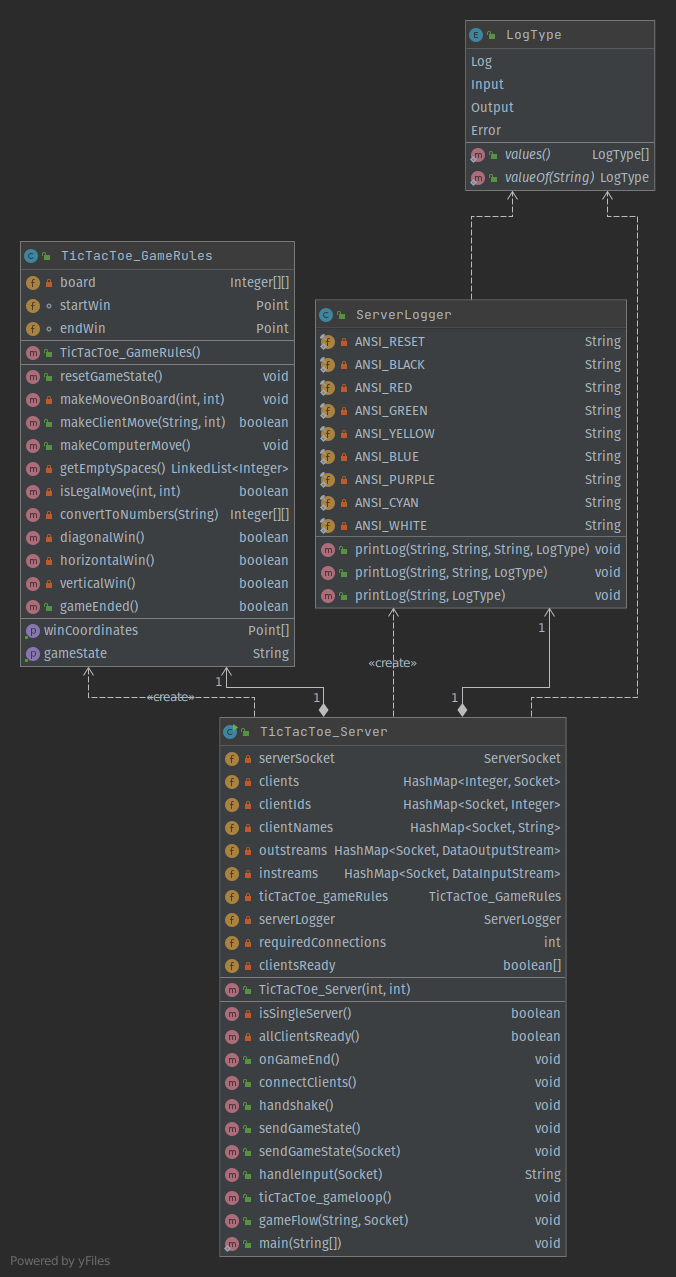
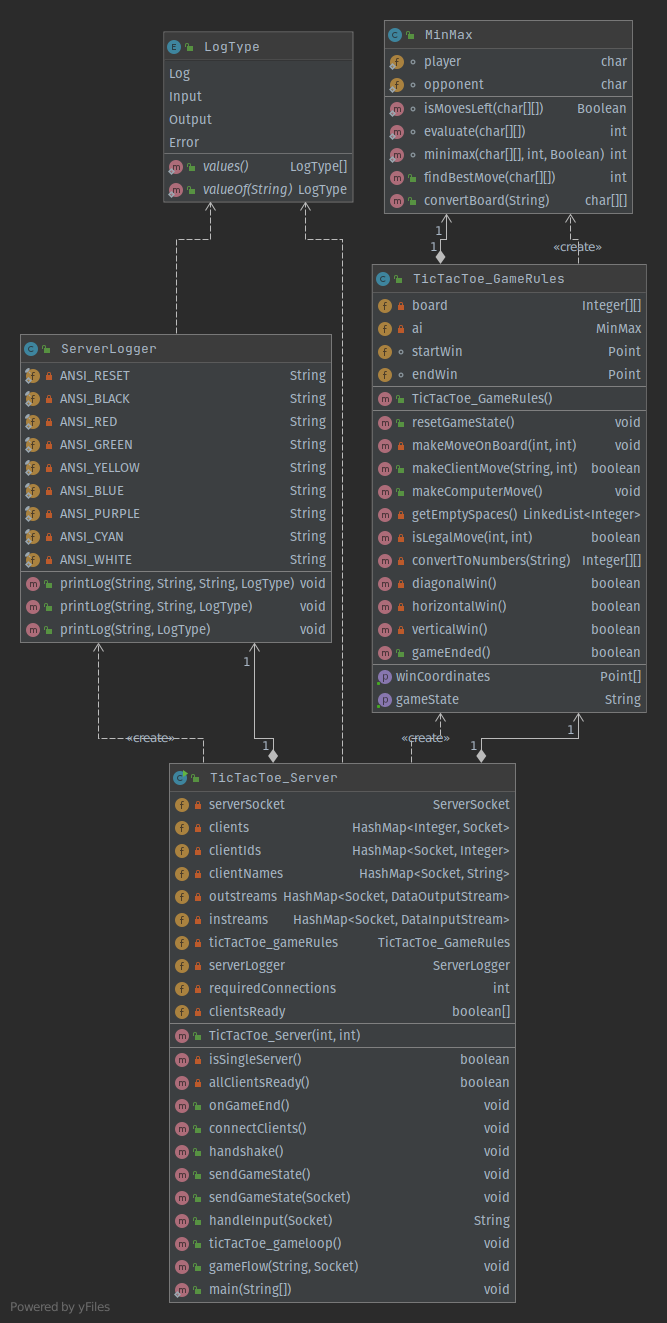
Added AI

Changed region(s): [[0.03, 0.0, 0.9895, 1.0], [0.09, 0.9773, 0.1499, 1.0], [0.5097, 0.0305, 0.5397, 0.0611]]

diff --git a/Server/src/ai/MinMax.java b/Server/src/ai/MinMax.java
@@ -1,0 +1,208 @@
+package ai;
+// Java program to find the
+// next optimal move for a player
+public class MinMax
+{
+    static char player = 'o', opponent = 'x';
+
+    // This function returns true if there are moves
+// remaining on the board. It returns false if
+// there are no moves left to play.
+    static Boolean isMovesLeft(char board[][])
+    {
+        for (int i = 0; i < 3; i++)
+            for (int j = 0; j < 3; j++)
+                if (board[i][j] == '-')
+                    return true;
+        return false;
+    }
+
+    // This is the evaluation function as discussed
+// in the previous article ( http://goo.gl/sJgv68 )
+    static int evaluate(char b[][])
+    {
+        // Checking for Rows for X or O victory.
+        for (int row = 0; row < 3; row++)
+        {
+            if (b[row][0] == b[row][1] &&
+                    b[row][1] == b[row][2])
+            {
+                if (b[row][0] == player)
+                    return +10;
+                else if (b[row][0] == opponent)
+                    return -10;
+            }
+        }
+
+        // Checking for Columns for X or O victory.
+        for (int col = 0; col < 3; col++)
+        {
+            if (b[0][col] == b[1][col] &&
+                    b[1][col] == b[2][col])
+            {
+                if (b[0][col] == player)
+                    return +10;
+
+                else if (b[0][col] == opponent)
+                    return -10;
+            }
+        }
+
+        // Checking for Diagonals for X or O victory.
+        if (b[0][0] == b[1][1] && b[1][1] == b[2][2])
+        {
+            if (b[0][0] == player)
+                return +10;
+            else if (b[0][0] == opponent)
+                return -10;
+        }
+
+        if (b[0][2] == b[1][1] && b[1][1] == b[2][0])
+        {
+            if (b[0][2] == player)
+                return +10;
+            else if (b[0][2] == opponent)
+                return -10;
+        }
+
+        // Else if none of them have won then return 0
+        return 0;
+    }
+
+    // This is the minimax function. It considers all
+// the possible ways the game can go and returns
+// the value of the board
+    static int minimax(char board[][],
+                       int depth, Boolean isMax)
+    {
+        int score = evaluate(board);
+
+        // If Maximizer has won the game
+        // return his/her evaluated score
+        if (score == 10)
+            return score;
+
+        // If Minimizer has won the game
+        // return his/her evaluated score
+        if (score == -10)
+            return score;
+
+        // If there are no more moves and
+        // no winner then it is a tie
+        if (isMovesLeft(board) == false)
+            return 0;
+
+        // If this maximizer's move
+        if (isMax)
+        {
+            int best = -1000;
+
+            // Traverse all cells
+            for (int i = 0; i < 3; i++)
+            {
+                for (int j = 0; j < 3; j++)
+                {
+                    // Check if cell is empty
+                    if (board[i][j]=='-')
+                    {
+                        // Make the move
+                        board[i][j] = player;
+
+                        // Call minimax recursively and choose
+                        // the maximum value
+                        best = Math.max(best, minimax(board,
+                                depth + 1, !isMax));
+
+                        // Undo the move
+                        board[i][j] = '-';
+                    }
+                }
+            }
+            return best;
+        }
+
+        // If this minimizer's move
+        else
+        {
+            int best = 1000;
+
+            // Traverse all cells
+            for (int i = 0; i < 3; i++)
+            {
+                for (int j = 0; j < 3; j++)
+                {
+                    // Check if cell is empty
+                    if (board[i][j] == '-')
+                    {
+                        // Make the move
+                        board[i][j] = opponent;
+
+                        // Call minimax recursively and choose
+                        // the minimum value
+                        best = Math.min(best, minimax(board,
+                                depth + 1, !isMax));
+
+                        // Undo the move
+                        board[i][j] = '-';
+                    }
+                }
+            }
+            return best;
+        }
+    }
+
+    // This will return the best possible
+// move for the player
+    public int findBestMove(char board[][])
+    {
+        int bestVal = -1000;
+        int row = -1;
+        int col = -1;
+
+        // Traverse all cells, evaluate minimax function
+        // for all empty cells. And return the cell
+        // with optimal value.
+        for (int i = 0; i < 3; i++)
+        {
+            for (int j = 0; j < 3; j++)
+            {
+                // Check if cell is empty
+                if (board[i][j] == '-')
+                {
+                    // Make the move
+                    board[i][j] = player;
+
+                    // compute evaluation function for this
+                    // move.
+                    int moveVal = minimax(board, 0, false);
+
+                    // Undo the move
+                    board[i][j] = '-';
+
+                    // If the value of the current move is
+                    // more than the best value, then update
+                    // best/
+                    if (moveVal > bestVal)
+                    {
+                        row = i;
+                        col = j;
+                        bestVal = moveVal;
+                    }
+                }
+            }
+        }
+        return col*3+row;
+    }
+
+    public char[][] convertBoard(String gameState){
+        char board[][] = new char[3][3];
+        for (int i = 0; i < gameState.length(); i++) {
+            int column = i / 3;
+            int row = i % 3;
+            board[row][column] = gameState.charAt(i);
+        }
+        return board;
+    }
+
+}
+ 

diff --git a/Server/src/TicTacToe_Server.java b/Server/src/TicTacToe_Server.java
@@ -1,6 +1,6 @@
 import logging.LogType;
 import logging.ServerLogger;
-import res.TicTacToe_GameRules;
+import game.TicTacToe_GameRules;
 
 import java.awt.*;
 import java.io.DataInputStream;
@@ -201,12 +201,16 @@ public class TicTacToe_Server {
                             sendGameState();
                             serverLogger.printLog("Trigger computer move", LogType.Log);
                             ticTacToe_gameRules.makeComputerMove();
-                            outstreams.get(client).writeUTF("opponentMove");
-                            outstreams.get(client).flush();
-                            sendGameState();
+                            Thread.sleep(500);
                             if (ticTacToe_gameRules.gameEnded()){
+                                sendGameState();
+                                Thread.sleep(1000);
                                 this.onGameEnd();
                                 break;
+                            } else {
+                                outstreams.get(client).writeUTF("opponentMove");
+                                outstreams.get(client).flush();
+                                sendGameState();
                             }
                         }
 
@@ -216,6 +220,8 @@ public class TicTacToe_Server {
                         serverLogger.printLog("Move is not allowed", clientNames.get(client), position,LogType.Error);
                     }
                 } catch (IOException e) {
+                    e.printStackTrace();
+                } catch (InterruptedException e) {
                     e.printStackTrace();
                 }
                 break;

diff --git a/Client/src/render/Engine.java b/Client/src/render/Engine.java
@@ -11,6 +11,7 @@ import javafx.scene.text.FontWeight;
 import javafx.scene.text.Text;
 import javafx.stage.Stage;
 
+
 import java.awt.*;
 import java.util.concurrent.CountDownLatch;
 
@@ -38,22 +39,9 @@ public class Engine extends Application {
         grid.setVgap(75);
     }
 
-    private Scene setStartingScene(){
-        scene = new Scene(grid, 900, 900);
-        grid.add(new javafx.scene.control.Label("Your Username"), 0, 0);
-        grid.add(new javafx.scene.control.TextField(), 1,0);
-        scene.setOnMousePressed(new EventHandler<MouseEvent>() {
-            @Override
-            public void handle(MouseEvent mouseEvent) {
-
-            }
-        });
-        return scene;
-    }
-
     private Scene setPlayingScene() {
         scene = new Scene(grid, 900, 900);
-        scene.getStylesheets().add("res/TicTacToe_Client.css");
+        scene.getStylesheets().add("game/TicTacToe_Client.css");
         scene.setOnMousePressed(new EventHandler<MouseEvent>() {
             @Override
             public void handle(MouseEvent event) {
@@ -149,7 +137,8 @@ public class Engine extends Application {
         primaryStage.setTitle("Test");
         primaryStage.setResizable(true);
         this.initializeGrid();
-        primaryStage.setScene(this.setPlayingScene());
+        this.scene = this.setPlayingScene();
+        primaryStage.setScene(scene);
         primaryStage.sizeToScene();
         primaryStage.show();
 

diff --git a/Server/src/game/TicTacToe_GameRules.java b/Server/src/game/TicTacToe_GameRules.java
@@ -1,18 +1,21 @@
-package res;
+package game;
+
+import ai.MinMax;
 
 import java.awt.*;
 import java.nio.charset.StandardCharsets;
 import java.util.LinkedList;
-import java.util.Random;
 
 public class TicTacToe_GameRules {
 
     private String gameState;
     private Integer[][] board;
+    private MinMax ai;
     Point startWin, endWin;
 
     public TicTacToe_GameRules(){
         gameState = "---------";
+        ai = new MinMax();
     }
 
     public void resetGameState() {
@@ -55,12 +58,8 @@ public class TicTacToe_GameRules {
     }
 
     public void makeComputerMove(){
-        LinkedList<Integer> emptySpaces = getEmptySpaces();
-        if (emptySpaces.size() > 0) {
-            Random random = new Random();
-            int index = emptySpaces.get(random.nextInt(emptySpaces.size()));
-            makeMoveOnBoard(index, 1);
-        }
+        int index = ai.findBestMove(ai.convertBoard(this.getGameState()));
+        makeMoveOnBoard(index, 1);
     }
 
     private LinkedList<Integer> getEmptySpaces(){
